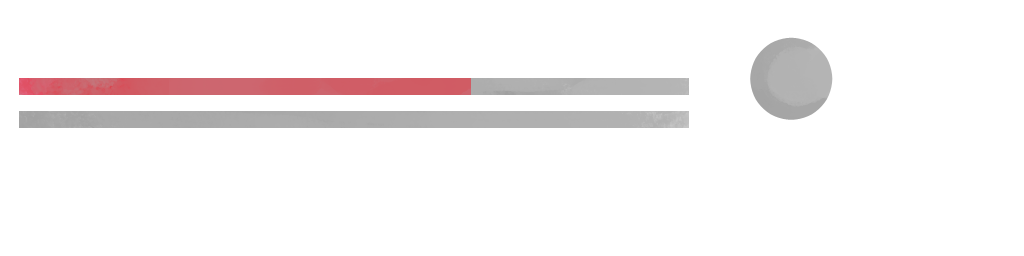
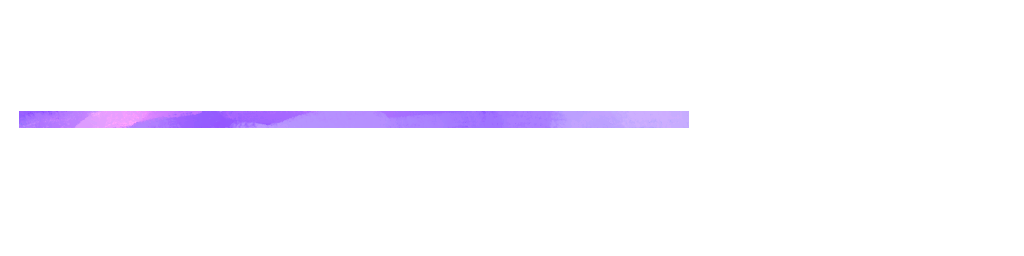
Ui改善

Changed region(s): [[0.0, 0.2812, 0.6875, 0.375], [0.0, 0.4062, 0.6875, 0.5], [0.7188, 0.125, 0.8125, 0.4688]]

diff --git a/Libraly/UI/EnemyBaseUi.cpp b/Libraly/UI/EnemyBaseUi.cpp
@@ -16,10 +16,17 @@ void EnemyBaseUi::Init()
 	m_pos.x = 1050.0f;
 	m_pos.y = 30.0f;
 	m_param.category_id = TEXTURE_CATEGORY_GAME;
-	m_param.texture_id = GameCategoryTextureList::GameEnemyUi;
+	m_param.texture_id = GameCategoryTextureList::GameEnemyUi2;
+	m_gauge_base_texid = GameCategoryTextureList::GameEnemyGaugeBase;
 }
 
 void EnemyBaseUi::Update()
 {
 
+}
+
+void EnemyBaseUi::Draw()
+{
+	DrawTexture(m_pos.x, m_pos.y, GetTexture(m_param.category_id, m_gauge_base_texid));
+	DrawTexture(m_pos.x, m_pos.y, GetTexture(m_param.category_id, m_param.texture_id));
 }

diff --git a/Libraly/UI/EnemyBaseUi.h b/Libraly/UI/EnemyBaseUi.h
@@ -11,8 +11,10 @@ public:
 
 	void Init()override;
 	void Update()override;
+	void Draw()override;
 	
 private:
+	int m_gauge_base_texid;
 
 };
 
